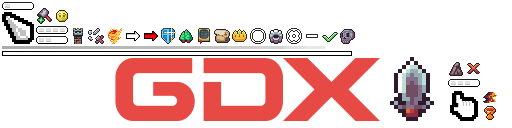
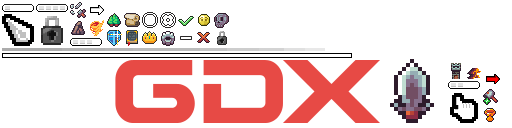
Arreglo de HUD y escalar ventanas

diff --git a/core/src/main/java/com/tikisadventure/ui/HUD.java b/core/src/main/java/com/tikisadventure/ui/HUD.java
@@ -13,7 +13,7 @@ import com.badlogic.gdx.scenes.scene2d.actions.Actions;
 import com.badlogic.gdx.scenes.scene2d.ui.*;
 import com.badlogic.gdx.utils.Align;
 import com.badlogic.gdx.utils.Array;
-import com.badlogic.gdx.utils.viewport.ScreenViewport;
+import com.badlogic.gdx.utils.viewport.FitViewport;
 import com.tikisadventure.entities.player.Player;
 import com.tikisadventure.input.TouchpadInput;
 import com.tikisadventure.screens.GameScreen;
@@ -67,6 +67,12 @@ public class HUD {
     private TouchpadInput touchpadInput;
 
     private HUDStats hudStats;
+
+    private Table mainTable;
+    private Stack xpStack;
+    private Table hpTable;
+    private Image dashBoxBg;
+    private Image gadgetBoxBg;
 
     private Skin skin;
 
@@ -134,6 +140,9 @@ public class HUD {
             Color c = getColor();
             if (c.a <= 0.01f || getStage() == null) return;
 
+            // Guardar el color real empaquetado
+            float oldColor = batch.getPackedColor();
+
             float w = getStage().getWidth();
             float h = getStage().getHeight();
             float borderThickness = h * 0.08f;
@@ -145,7 +154,8 @@ public class HUD {
             rect.draw(batch, 0, borderThickness, borderThickness, h - borderThickness * 2);
             rect.draw(batch, w - borderThickness, borderThickness, borderThickness, h - borderThickness * 2);
 
-            batch.setColor(Color.WHITE);
+            // Restaurar el color exacto que tenía antes
+            batch.setPackedColor(oldColor);
         }
     }
 
@@ -239,7 +249,8 @@ public class HUD {
 
     public HUD(Batch batch, com.tikisadventure.entities.player.Player player, boolean showTouchpads) {
 
-        stage = new Stage(new ScreenViewport(), batch);
+        // CAMBIO CRÍTICO: Usamos FitViewport para que LibGDX escale todo automáticamente
+        stage = new Stage(new FitViewport(1280, 720), batch);
         this.player = player;
         this.showTouchpads = showTouchpads;
 
@@ -251,7 +262,8 @@ public class HUD {
         stage.addActor(damageOverlay);
 
         if (showTouchpads) {
-            float hudHeight = Gdx.graphics.getHeight();
+            // CAMBIO: Usamos el ancho base (1280) en lugar del tamaño físico de la pantalla
+            float hudWidth = 1280f;
 
             Touchpad.TouchpadStyle touchpadStyle = new Touchpad.TouchpadStyle();
             touchpadStyle.background = this.skin.newDrawable("rect", new Color(1f, 1f, 1f, 0.3f));
@@ -262,7 +274,7 @@ public class HUD {
             stage.addActor(moveTouchpad);
 
             aimTouchpad = new Touchpad(10, touchpadStyle);
-            aimTouchpad.setBounds(hudHeight - 135, 15, 120, 120);
+            aimTouchpad.setBounds(hudWidth - 135, 15, 120, 120);
             stage.addActor(aimTouchpad);
 
             ImageButton.ImageButtonStyle buttonStyle = new ImageButton.ImageButtonStyle();
@@ -272,7 +284,7 @@ public class HUD {
 
             interactButton = new ImageButton(buttonStyle);
             interactButton.setSize(50, 50);
-            interactButton.setPosition(hudHeight - 270, 15);
+            interactButton.setPosition(hudWidth - 270, 15);
             stage.addActor(interactButton);
 
             ImageButton.ImageButtonStyle dashButtonStyle = new ImageButton.ImageButtonStyle();
@@ -282,7 +294,7 @@ public class HUD {
 
             dashButton = new ImageButton(dashButtonStyle);
             dashButton.setSize(50, 50);
-            dashButton.setPosition(hudHeight - 220, 15);
+            dashButton.setPosition(hudWidth - 220, 15);
             stage.addActor(dashButton);
 
             ImageButton.ImageButtonStyle ability2ButtonStyle = new ImageButton.ImageButtonStyle();
@@ -292,7 +304,7 @@ public class HUD {
 
             ability2Button = new ImageButton(ability2ButtonStyle);
             ability2Button.setSize(50, 50);
-            ability2Button.setPosition(hudHeight - 270, 75);
+            ability2Button.setPosition(hudWidth - 270, 75);
             stage.addActor(ability2Button);
 
             touchpadInput = new TouchpadInput(moveTouchpad, aimTouchpad, interactButton, dashButton, ability2Button);
@@ -307,7 +319,7 @@ public class HUD {
         levelUpUI.setVisible(false);
         stage.addActor(levelUpUI);
 
-        Table mainTable = new Table();
+        mainTable = new Table();
         mainTable.setFillParent(true);
         mainTable.top();
 
@@ -316,14 +328,14 @@ public class HUD {
         levelLabel = new Label("LVL 1", this.skin, "font-21");
         levelLabel.setAlignment(Align.center);
 
-        Stack xpStack = new Stack();
+        xpStack = new Stack();
         xpStack.add(xpBar);
 
         Table levelCenterTable = new Table();
         levelCenterTable.add(levelLabel).center();
         xpStack.add(levelCenterTable);
 
-        Table hpTable = new Table();
+        hpTable = new Table();
         TextureRegion hpRegion = Assets.getRegion("shared", "stats_asset/statLife");
         if (hpRegion != null) {
             heartIcon = new HeartIcon(hpRegion);
@@ -361,30 +373,24 @@ public class HUD {
 
         hudStats = new HUDStats(this.skin, stage);
 
-        // NUEVO: Instanciar y añadir el texto de fase
         stageLabel = new Label("", this.skin, "font-38");
         stageLabel.setAlignment(Align.center);
-        stageLabel.getColor().a = 0f; // Empieza invisible
+        stageLabel.getColor().a = 0f;
         stage.addActor(stageLabel);
 
         waveLabel = new Label("", this.skin, "font-16");
         waveLabel.setColor(Color.RED);
         stage.addActor(waveLabel);
-
-
     }
 
-    // NUEVO MÉTODO: Llama a este método para disparar la animación de la fase
     public void showStageMessage(int stageNumber) {
         stageLabel.setText("Fase " + stageNumber);
-        stageLabel.pack(); // Ajusta el tamaño de la label a su texto
+        stageLabel.pack();
 
-        // Lo centramos en el medio superior de la pantalla
         stageLabel.setPosition(stage.getWidth() / 2f, stage.getHeight() * 0.75f, Align.center);
-        stageLabel.toFront(); // Aseguramos que se dibuje por encima de todo
+        stageLabel.toFront();
 
-        stageLabel.clearActions(); // Limpiamos acciones anteriores por si acaso
-        // Secuencia: Aparecer suavemente, esperar 2 segundos, y desvanecerse
+        stageLabel.clearActions();
         stageLabel.addAction(Actions.sequence(
             Actions.alpha(0f),
             Actions.fadeIn(0.5f),
@@ -444,9 +450,9 @@ public class HUD {
         abilityBoxDash.setSize(104, 104);
 
         if (boxBackground != null) {
-            com.badlogic.gdx.scenes.scene2d.ui.Image bg = new com.badlogic.gdx.scenes.scene2d.ui.Image(boxBackground);
-            bg.setSize(104, 104);
-            abilityBoxDash.addActor(bg);
+            dashBoxBg = new com.badlogic.gdx.scenes.scene2d.ui.Image(boxBackground);
+            dashBoxBg.setSize(104, 104);
+            abilityBoxDash.addActor(dashBoxBg);
         }
 
         if (dashIconTex != null) {
@@ -478,9 +484,9 @@ public class HUD {
         abilityBoxGadget.setSize(104, 104);
 
         if (boxBackground != null) {
-            com.badlogic.gdx.scenes.scene2d.ui.Image bg = new com.badlogic.gdx.scenes.scene2d.ui.Image(boxBackground);
-            bg.setSize(104, 104);
-            abilityBoxGadget.addActor(bg);
+            gadgetBoxBg = new com.badlogic.gdx.scenes.scene2d.ui.Image(boxBackground);
+            gadgetBoxBg.setSize(104, 104);
+            abilityBoxGadget.addActor(gadgetBoxBg);
         }
 
         gadgetIcon = new com.badlogic.gdx.scenes.scene2d.ui.Image();
@@ -611,18 +617,20 @@ public class HUD {
         waveLabel.setPosition(stage.getWidth() - waveLabel.getPrefWidth() - 20f, 20f);
     }
 
-    public void render(){
-        stage.act(Gdx.graphics.getDeltaTime());
+    public void render() {
+        stage.act();
+        stage.getBatch().setColor(Color.WHITE);
         stage.draw();
-        if (hudStats != null) {
-            hudStats.render();
-        }
     }
 
     public void resize(int width, int height){
+        // FitViewport se encarga ahora de escalar y centrar todo automáticamente
         stage.getViewport().update(width, height, true);
 
-        // Reposicionar el cartel de fase si se redimensiona la ventana
+        if (levelUpUI != null && levelUpUI.isVisible()) {
+            levelUpUI.centerOnStage(stage.getWidth(), stage.getHeight());
+        }
+
         if (stageLabel != null) {
             stageLabel.setPosition(stage.getWidth() / 2f, stage.getHeight() * 0.75f, Align.center);
         }
@@ -675,7 +683,7 @@ public class HUD {
         if (abilityTable != null) {
             abilityTable.clearChildren();
             abilityTable.add().expandY().row();
-            abilityTable.add(abilityBoxDash).width(104).height(104).padBottom(20);
+            abilityTable.add(abilityBoxDash).width(104f).height(104f).padBottom(20f);
         }
     }
 

diff --git a/core/src/main/java/com/tikisadventure/ui/HUDStats.java b/core/src/main/java/com/tikisadventure/ui/HUDStats.java
@@ -3,6 +3,7 @@ package com.tikisadventure.ui;
 import com.badlogic.gdx.Gdx;
 import com.badlogic.gdx.graphics.Color;
 import com.badlogic.gdx.graphics.g2d.TextureRegion;
+import com.badlogic.gdx.math.MathUtils;
 import com.badlogic.gdx.math.Vector2;
 import com.badlogic.gdx.scenes.scene2d.Actor;
 import com.badlogic.gdx.scenes.scene2d.InputEvent;
@@ -31,6 +32,7 @@ public class HUDStats {
 
     private Table statsPanel;
     private Label toggleStatsButton;
+    private Label statsKeyLabel;
     private boolean statsVisible = true;
 
     private Table tooltipTable;
@@ -229,6 +231,7 @@ public class HUDStats {
         statsPanel = new Table();
         statsPanel.setBackground(skin.newDrawable("rect", new Color(0.1f, 0.1f, 0.1f, 0.85f)));
         statsPanel.pad(12);
+        statsPanel.setTransform(true);
 
         regLabel = new Label("0%", skin);
         leechLabel = new Label("0%", skin);
@@ -312,7 +315,7 @@ public class HUDStats {
         stage.addActor(toggleStatsButton);
 
         Label.LabelStyle statsKeyStyle = new Label.LabelStyle(FontManager.getFont(12), Color.YELLOW);
-        Label statsKeyLabel = new Label("TAB", statsKeyStyle);
+        statsKeyLabel = new Label("TAB", statsKeyStyle);
         statsKeyLabel.setPosition(toggleStatsButton.getX() + toggleStatsButton.getPrefWidth() + 8, toggleStatsButton.getY() + 7);
         stage.addActor(statsKeyLabel);
 
@@ -365,6 +368,12 @@ public class HUDStats {
             critLabel.setText((int)(player.getCritChanceBonus() * 100) + "%");
 
             statsPanel.pack();
+
+            float scale = MathUtils.clamp(stage.getWidth() / 1280f, 0.7f, 2.0f);
+            statsPanel.setScale(scale);
+            statsPanel.setPosition(10 * scale, 50 * scale);
+            toggleStatsButton.setPosition(10 * scale, 5 * scale);
+            statsKeyLabel.setPosition(toggleStatsButton.getX() + toggleStatsButton.getPrefWidth() + 8, toggleStatsButton.getY() + 7);
         }
     }
 

diff --git a/core/src/main/java/com/tikisadventure/ui/PauseUI.java b/core/src/main/java/com/tikisadventure/ui/PauseUI.java
@@ -16,7 +16,7 @@ import com.badlogic.gdx.scenes.scene2d.utils.TextureRegionDrawable;
 import com.tikisadventure.core.SaveManager;
 import com.tikisadventure.ui.FontManager;
 import com.tikisadventure.screens.GameScreen;
-import com.tikisadventure.screens.MenuScreen;
+import com.tikisadventure.screens.MenuMapScreen;
 
 public class PauseUI extends Table {
 
@@ -164,7 +164,7 @@ public class PauseUI extends Table {
         btnYes.addListener(new ClickListener() {
             @Override public void clicked(InputEvent event, float x, float y) {
                 if (!transitionStarted) {
-                    doFadeTransition(new MenuScreen(game));
+                    doFadeTransition(new MenuMapScreen(game));
                 }
             }
         });

diff --git a/core/src/main/java/com/tikisadventure/screens/GameScreen.java b/core/src/main/java/com/tikisadventure/screens/GameScreen.java
@@ -379,7 +379,7 @@ public class GameScreen implements Screen {
             batch.setColor(1f, 1f, 1f, 1f);
             batch.end();
         }
-
+        batch.setColor(Color.WHITE);
         hud.render();
     }
 
@@ -889,10 +889,6 @@ public class GameScreen implements Screen {
             Gdx.graphics.setFullscreenMode(Gdx.graphics.getDisplayMode());
             SaveManager.saveFullscreen(true);
         }
-        int w = Gdx.graphics.getWidth();
-        int h = Gdx.graphics.getHeight();
-        viewport.update(w, h, true);
-        hud.resize(w, h);
         pauseUI.sincronizarSelectorResolucion();
     }
 

diff --git a/core/src/main/java/com/tikisadventure/ui/LevelUpUI.java b/core/src/main/java/com/tikisadventure/ui/LevelUpUI.java
@@ -74,6 +74,12 @@ public class LevelUpUI extends Window {
 
         setVisible(true);
         toFront();
+        centerOnStage(stageWidth, stageHeight);
+    }
+
+    public void centerOnStage(float stageWidth, float stageHeight) {
+        lastStageWidth = stageWidth;
+        lastStageHeight = stageHeight;
         setPosition(
             Math.round((lastStageWidth - getWidth()) / 2f),
             Math.round((lastStageHeight - getHeight()) / 2f)

diff --git a/core/src/main/java/com/tikisadventure/ui/SettingsUI.java b/core/src/main/java/com/tikisadventure/ui/SettingsUI.java
@@ -249,10 +249,6 @@ public class SettingsUI extends Window {
                     SaveManager.saveFullscreen(false);
                     SaveManager.saveResolution(1280, 720);
                 }
-
-                if (getStage() != null && getStage().getViewport() != null) {
-                    getStage().getViewport().update(Gdx.graphics.getWidth(), Gdx.graphics.getHeight(), true);
-                }
             }
         });
 

diff --git a/core/src/main/java/com/tikisadventure/screens/MenuMapScreen.java b/core/src/main/java/com/tikisadventure/screens/MenuMapScreen.java
@@ -736,9 +736,6 @@ public class MenuMapScreen implements Screen {
             Gdx.graphics.setFullscreenMode(Gdx.graphics.getDisplayMode());
             SaveManager.saveFullscreen(true);
         }
-        int w = Gdx.graphics.getWidth();
-        int h = Gdx.graphics.getHeight();
-        stage.getViewport().update(w, h, true);
     }
 
     @Override
